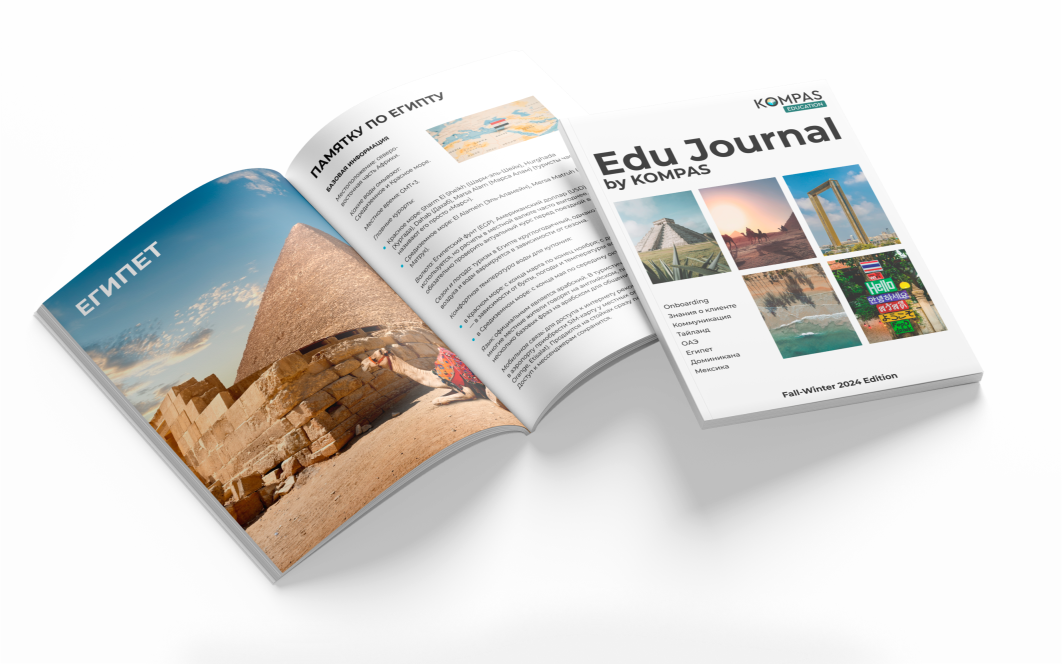
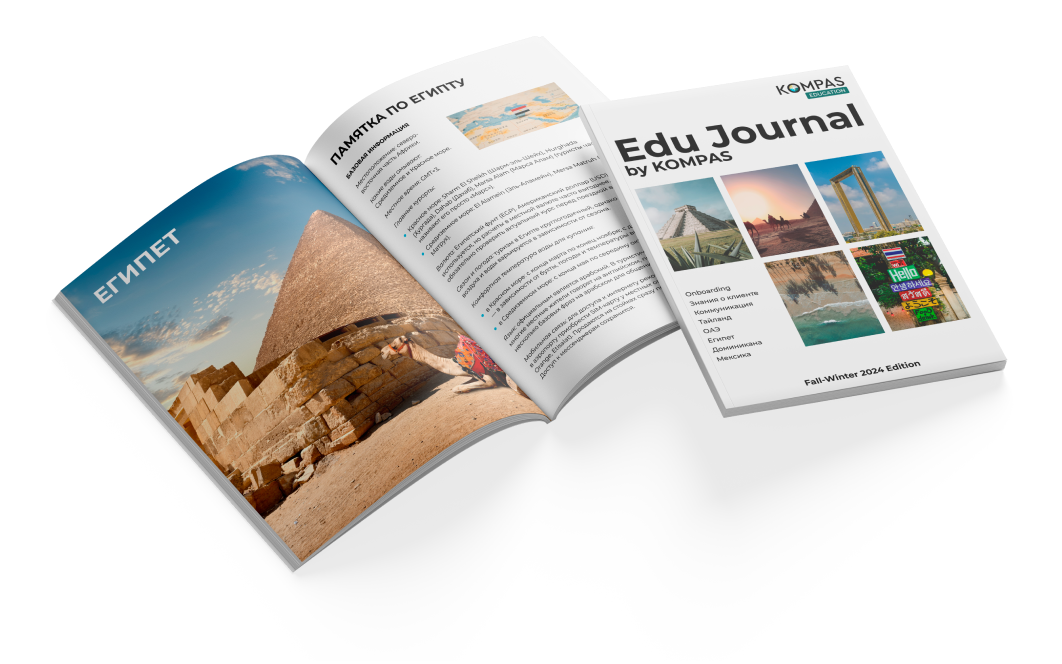
replace journal image

Changed region(s): [[0.0311, 0.1205, 0.9633, 0.9036], [0.1554, 0.3313, 0.1864, 0.3614]]

diff --git a/src/assets/styles/offer.css b/src/assets/styles/offer.css
@@ -33,22 +33,30 @@
 }
 
 .offer_button-wrapper {
+  position: relative;
+
   padding: 0 8rem;
   width: 50%;
   gap: 1.5rem;
   display: flex;
 
-  background: url('../images/offer-background.jpg') center no-repeat;
-  background-size: contain;
-  background-color: #24625D;
+  background-color: var(--title-color);
+}
+
+.offer_decore {
+  position: absolute;
+  width: 100%;
+  top: 2rem;
+  left: 0;
+  z-index: 1;
 }
 
 .offer_button {
   align-self: end;
-
   margin: 0 auto 5rem;
   width: 100%;
 
+  z-index: 2;
   background: #FFF;
   color: #000;
   box-shadow: -0.05rem 0.1rem 1rem 0 rgba(255,255,255,0.5);
@@ -83,12 +91,14 @@
 
   .offer_button-wrapper {
     padding: 0;
-    padding-top: 60vw;
     width: 100%;
     flex-direction: column;
 
-    background: url('../images/journal.png') top center no-repeat;
-    background-size: contain;
+    background: transparent;
+  }
+
+  .offer_decore {
+    position: static;
   }
 
   .offer_button {

diff --git a/index.html b/index.html
@@ -394,6 +394,8 @@
         </div>
         
         <div class="offer_button-wrapper">
+          <img class="offer_decore" src="/src/assets/images/journal.png" alt="Edu Journal" />
+
           <button class="action-btn offer_button" type="button">Купить выпуск на русском</button>
           <button class="action-btn offer_button" type="button">Купить выпуск на украинском</button>
         </div>

diff --git a/src/assets/styles/_common.css b/src/assets/styles/_common.css
@@ -34,7 +34,7 @@ html {
 
   :root {
     --card-radius: 1rem;
-    --section-gap: 3rem 2rem 2.5rem;
+    --section-gap: 2rem 2.5rem;
   }
 }
 @media (max-width: 576px) {

diff --git a/src/assets/styles/promo.css b/src/assets/styles/promo.css
@@ -126,7 +126,7 @@
   .promo_subtitle {
     order: 1;
     padding-right: 0;
-    font-size: 1.3rem;
+    font-size: 1.1rem;
   }
   .promo_title {
     order: 2;
